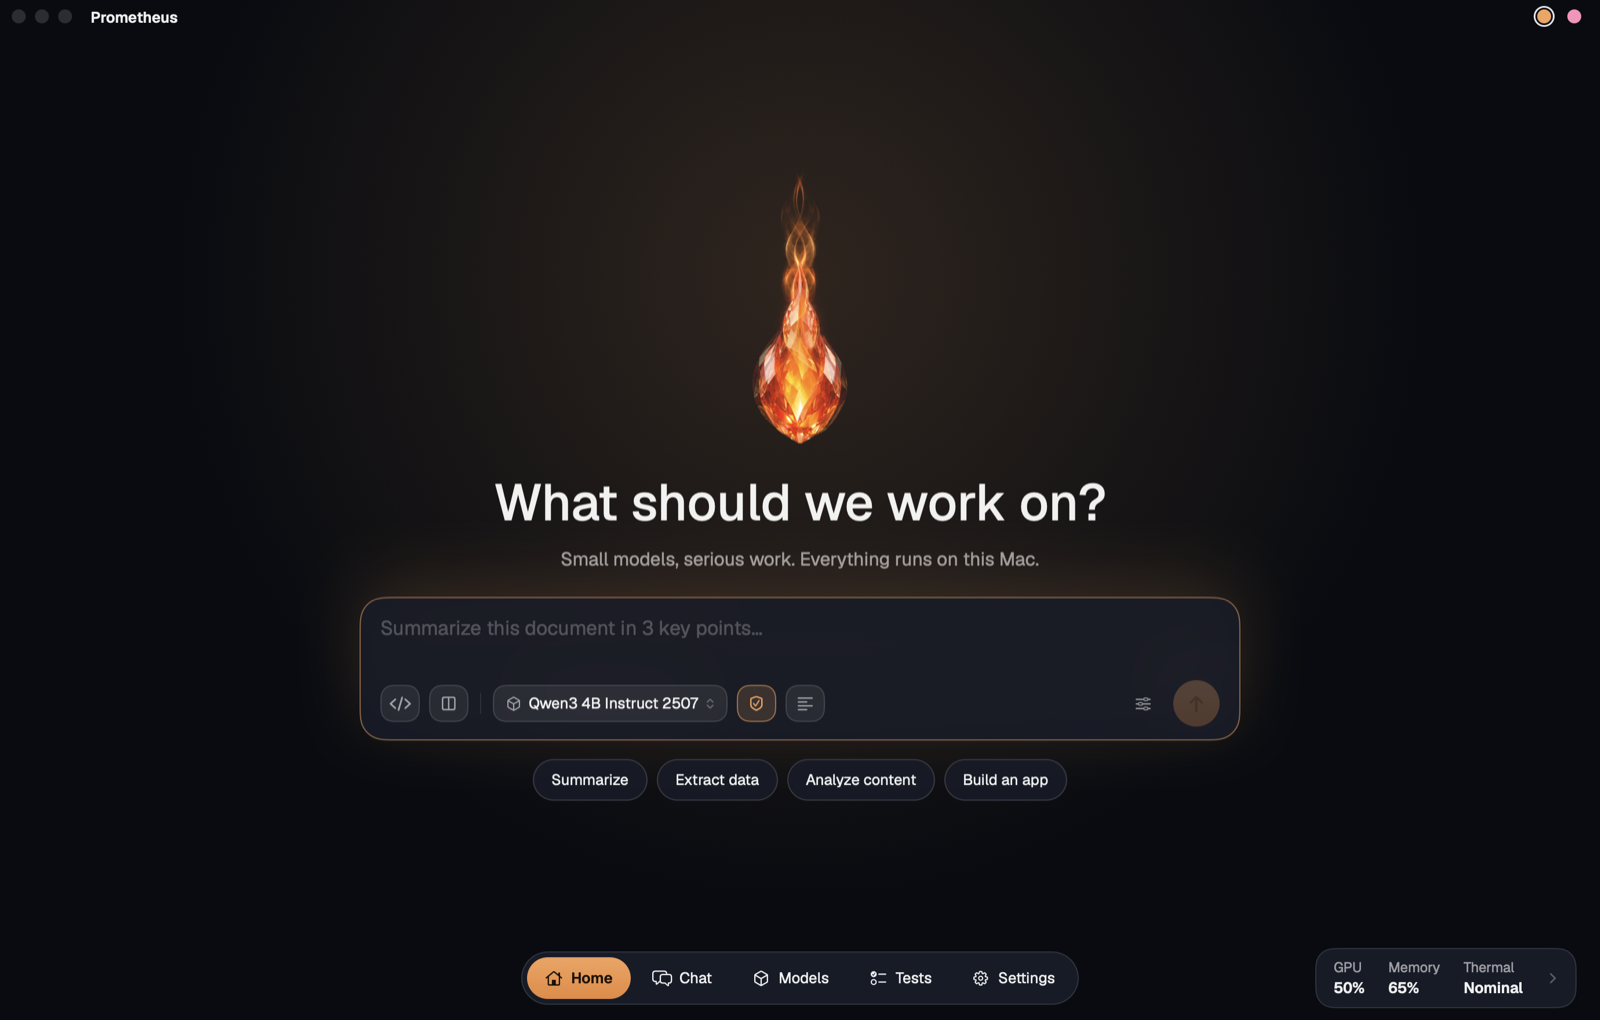
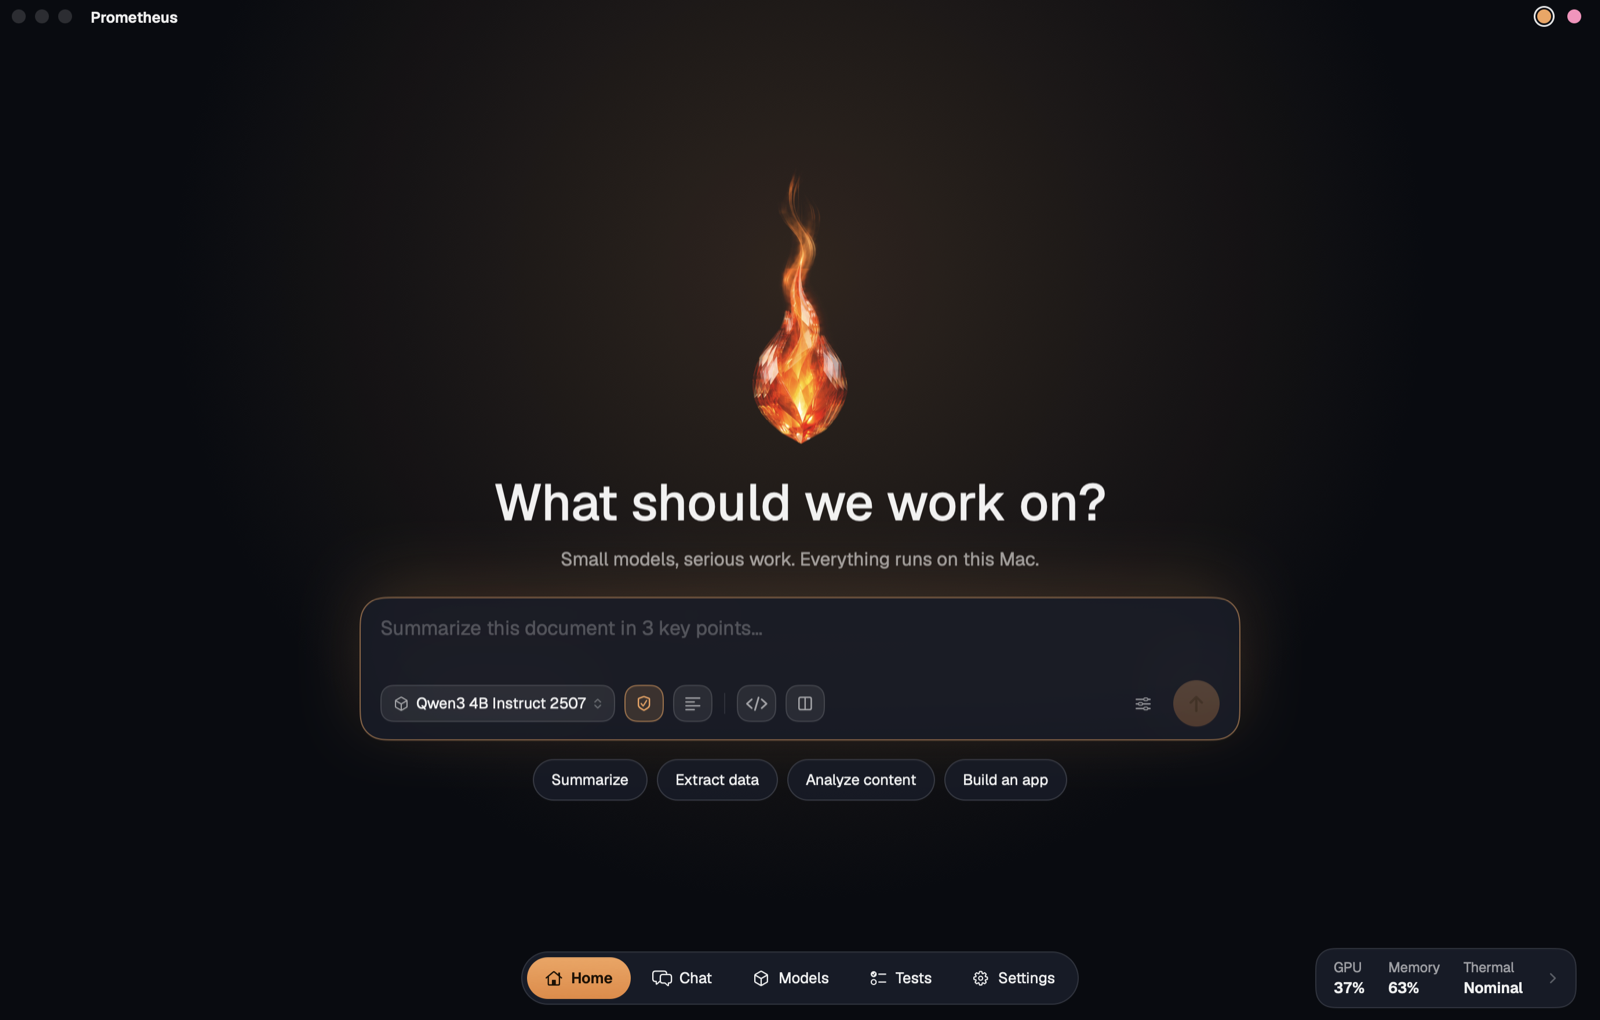
Put the model first in Home's row
The row under the question starts with the model, the one choice that
keeps its name, then the harness and the context window, then Dev, the
project and Compare.

Changed region(s): [[0.4688, 0.2127, 0.5312, 0.4255], [0.25, 0.6686, 0.5, 0.699]]

diff --git a/Sources/LocalAIAgent/Views/Home/HomePage.swift b/Sources/LocalAIAgent/Views/Home/HomePage.swift
@@ -100,12 +100,12 @@ private struct AskBox: View {
                     .focused($focused)
                     .onSubmit(send)
                     .accessibilityLabel("Your task")
-                // One line. Only the model keeps its name: the rest are icons that light up when they're on,
-                // each explained by a card under the pointer.
+                // One line, the model first. Only the model keeps its name: the rest are icons that light up
+                // when they're on, each explained by a card under the pointer.
                 HStack(spacing: 8) {
-                    kindChips
-                    Forge.line.frame(width: 1, height: 18).padding(.horizontal, 2)
                     answerChips
+                    Forge.line.frame(width: 1, height: 18).padding(.horizontal, 2)
+                    kindChips
                     Spacer(minLength: 8)
                     Button { showOptions.toggle() } label: {
                         Image(systemName: "slider.horizontal.3")
